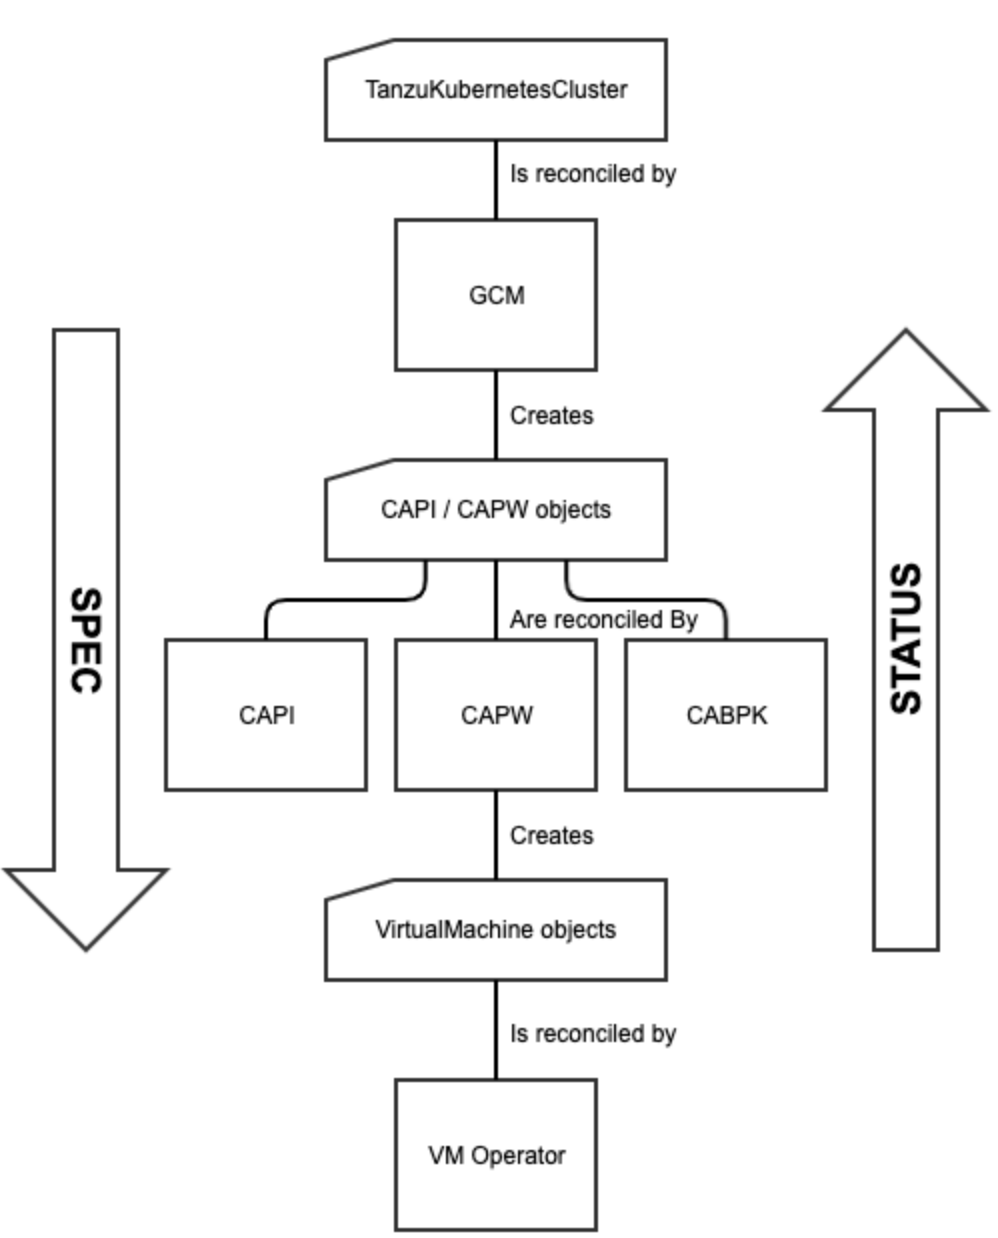
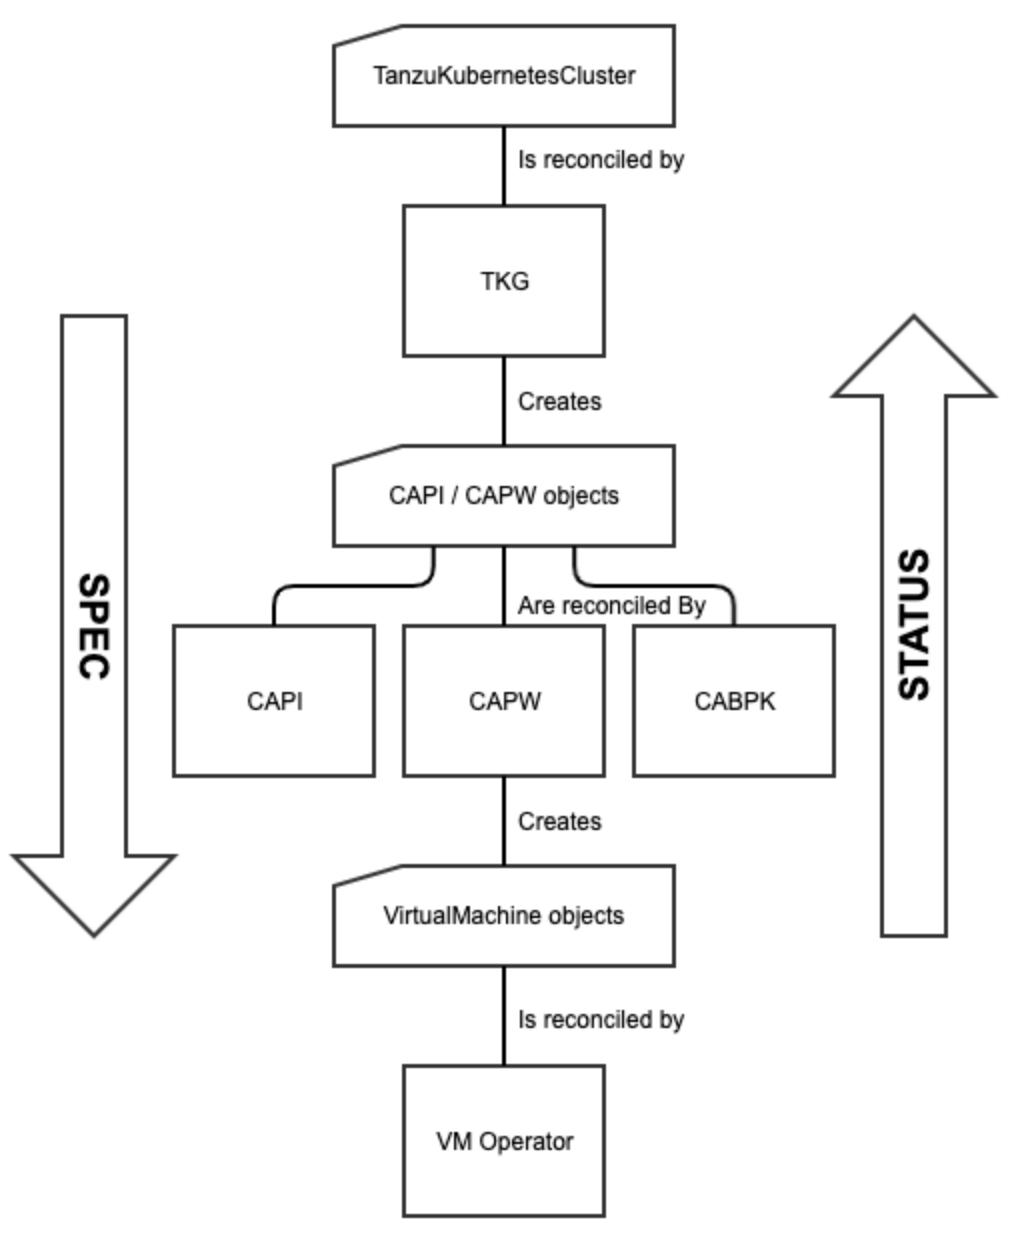
Replace GCM with TKG

diff --git a/docs/tkg-service/cluster-lifecycle/creation-basics.md b/docs/tkg-service/cluster-lifecycle/creation-basics.md
@@ -1,7 +1,7 @@
 - [The Basics](#the-basics)
   * [The 3 Layer Cake](#the-3-layer-cake)
   * [The Detailed View](#the-detailed-view)
-    + [GCM Layer](#gcm-layer)
+    + [TKG Layer](#TKG-layer)
       - [CAPI / CAPW object generation](#capi--capw-object-generation)
       - [TanzuKubernetesCluster](#tanzukubernetescluster)
     + [CAPI / CAPW Layer](#capi--capw-layer)
@@ -35,15 +35,15 @@ The TKG Service capability is heavily based around the Kubernetes [ClusterAPI](h
 As such, if you want to troubleshoot TKG Service Lifecycle issues, you'll spend most of the time actually interacting with the Supervisor. We'll touch on aspects of the Guest Cluster itself when we look at node debugging, security etc.
 
 ## The 3 Layer Cake
-At its most basic, cluster lifecycle is managed by 3 layers: **The Guest Cluster Manager (GCM)** layer, the **ClusterAPI (CAPI)** layer and the **VM Operator** layer.
+At its most basic, cluster lifecycle is managed by 3 layers: **The Tanzu Kubernetes Grid (TKG)** layer, the **ClusterAPI (CAPI)** layer and the **VM Operator** layer.
 
-<img src="images/3-layer-cake.png" width="499" height="619" />
+<img src="images/3-layer-cake.png" width="506" height="619" />
 
-**ClusterAPI** as the middle tier is the foundation around which everything else functions. The **VM Operator** layer supplies the plumbing and the **GCM layer** provides decoration and specialization. Spec is reconciled down the layers and Status is published back up the layers.
+**ClusterAPI** as the middle tier is the foundation around which everything else functions. The **VM Operator** layer supplies the plumbing and the **TKG layer** provides decoration and specialization. Spec is reconciled down the layers and Status is published back up the layers.
 
-The user starts by creating a **TanzuKubernetesCluster** (TKC) definition, which is reconciled by the GCM controller. GCM takes that TKC and turns it into CAPI / CAPW objects (CAPW is the ClusterAPI provider for Project Pacific). It also reads CAPI / CAPW status and reflects that back in TKC
+The user starts by creating a **TanzuKubernetesCluster** (TKC) definition, which is reconciled by the TKG controller. TKG takes that TKC and turns it into CAPI / CAPW objects (CAPW is the ClusterAPI provider for Project Pacific). It also reads CAPI / CAPW status and reflects that back in TKC
 
-The ClusterAPI layer is made up of 3 controllers and we'll look in more detail at what they do below. Fundamentally it's responsible for creating **VirtualMachine** definitions which contain the necessary configuration to stand up a cluster. Just like GCM, it also monitors the status of the VirtualMachine objects and reflects that back in the CAPI / CAPW objects.
+The ClusterAPI layer is made up of 3 controllers and we'll look in more detail at what they do below. Fundamentally it's responsible for creating **VirtualMachine** definitions which contain the necessary configuration to stand up a cluster. Just like TKG, it also monitors the status of the VirtualMachine objects and reflects that back in the CAPI / CAPW objects.
 
 The VM Operator layer is the declarative interface to vSphere. It creates objects such as **VirtualMachineImage** that show what images are available and reconciles VirtualMachine objects into actual VMs. It monitors the status of the real vSphere infrastructure and ensures that is reflected into the objects it manages.
 
@@ -53,15 +53,15 @@ As with everything, the reality is much more involved, although it follows the b
 
 <img src="images/tkg-service-lifecycle-detail.png" />
 
-### GCM Layer
+### TKG Layer
 
-As you can see at the bottom of this diagram, the TanzuKubernetesCluster is reconciled by the GCM controller.
+As you can see at the bottom of this diagram, the TanzuKubernetesCluster is reconciled by the TKG controller.
 
 _Note that each controller typically has 3 instances running with leader election enabled, so when we say "the controller" for any of these, we mean whichever one of 3 controllers that is currently acting as leader._
 
 #### CAPI / CAPW object generation
 
-GCM has to generate all of the input for the ClusterAPI layer. This is currently logically grouped as 3 YAML files.
+TKG has to generate all of the input for the ClusterAPI layer. This is currently logically grouped as 3 YAML files.
 
 - **Cluster.yaml** contains the definition of the Cluster itself. Note that it's split into two objects - the CAPI Cluster and the WCPCluster that augments it.
 - **Controlplane.yaml** contains the definition of the cluster control plane components. This consists of the following:
@@ -279,7 +279,7 @@ There are few interesting things worth calling out here:
 - You'll see this is where the Cluster Network settings are specified
 - The infrastructure reference to the WCPCluster is how the two are connected. WCPCluster also has an owner reference back to the Cluster
 - `APIEndpoints` is typically just one value - the IP address for connecting to the API Server. It can in theory be multiple values, but only if there isn't a load balancer
-- The rest of the status is just to indicate where the Cluster is in terms of its progress. That is all summarized in TKC by GCM controller.
+- The rest of the status is just to indicate where the Cluster is in terms of its progress. That is all summarized in TKC by TKG controller.
 
 Now let's look at a Machine:
 
@@ -343,7 +343,7 @@ As you might expect, the Machine `Spec` defines the blueprint for a node and the
 
 - Note the labels. They're all quite self-explanatory, but they're all meaningful for CAPI and should not be changed
 - The Machine has a finalizer just like Cluster to prevent it being deleted until the CAPI controller allows it
-- Note that this Machine has two owner references - one to the TKC and one to the Cluster object. The first is created by GCM and the latter is created by CAPI.
+- Note that this Machine has two owner references - one to the TKC and one to the Cluster object. The first is created by TKG and the latter is created by CAPI.
 - The Bootstrap Data is a copy of the base64-encoded cloud-init kubeadm config from KubeadmConfig Status
 - Infrastructure reference is a reference to the corresponding WCPMachine for this Machine. The WCPMachine has an owner reference back to the Machine
 - The `ProviderID` is the biosUUID of the VM
